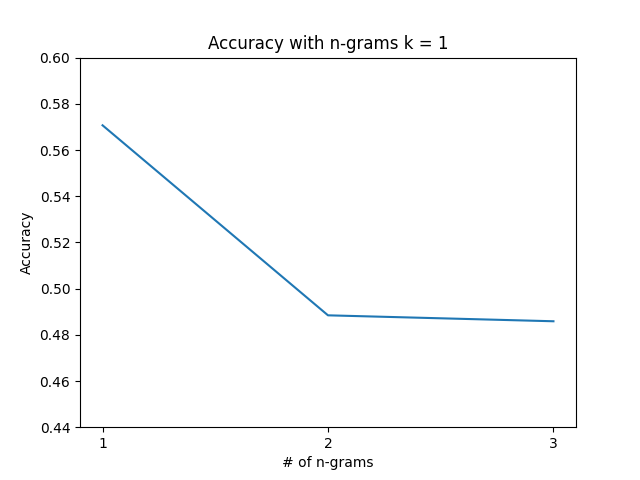
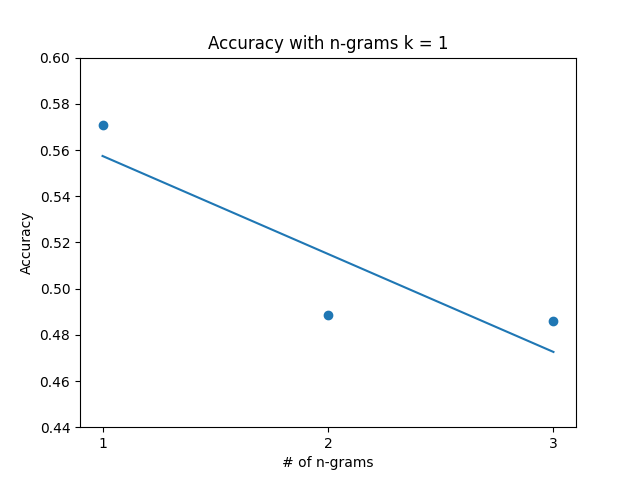
KNN Graphs&Results w/new data

diff --git a/kNN.py b/kNN.py
@@ -195,13 +195,13 @@ def extract_dictionary_custom(df,n_gram = 1):
 
 #generate a feature matrix
 def trainkNN(df):
-    word_dict, num_of_tweets = extract_dictionary_custom(df,2)
+    word_dict, num_of_tweets = extract_dictionary_custom(df,1)
     labels = {}
     num_of_words = len(word_dict)
     feature_matrix = np.zeros((num_of_tweets,num_of_words))
     ind = 0
     for index, row in df.iterrows():
-        x = extract_word_custom(row["Tweet"],2)
+        x = extract_word_custom(row["Tweet"],1)
         y = row["Party"]
         if len(x) != 0:
             for word in x:
@@ -216,7 +216,7 @@ def trainTestData(df,word_dict):
     feature_matrix = np.zeros((len(df),len(word_dict)))
     ind = 0
     for index, row in df.iterrows():
-        x = extract_word_custom(row["Tweet"],2)
+        x = extract_word_custom(row["Tweet"],1)
         y = row["Party"]
         for word in x:
             if word in word_dict:
@@ -259,7 +259,7 @@ def main(argv):
     # print(trainSet)
     # print(testSet)
     df = pd.read_csv(trainSet,delimiter=",")
-    df = df.sample(frac = 0.03, random_state=200)
+    df = df.sample(frac = 0.10, random_state=200)
     # print(len(df))
     traindf = df.sample(frac = 0.85, random_state=200)
     # print(len(traindf))
@@ -268,7 +268,7 @@ def main(argv):
     feature_matrix, trainLabels, word_dict = trainkNN(traindf)
     test_feature_matrix, testLabels = trainTestData(testdf,word_dict)
     # print(test_feature_matrix.sum(axis = 1))
-    print(testkNN(feature_matrix,test_feature_matrix, trainLabels, testLabels,3))
+    print(testkNN(feature_matrix,test_feature_matrix, trainLabels, testLabels,20))
 
 if __name__ == '__main__':
     main(sys.argv)

diff --git a/graphs.py b/graphs.py
@@ -1,28 +1,34 @@
 import sys
 import matplotlib.pyplot as plt
+import numpy as np
 
 
 def main(argv):
     #k value accuracy graph
-    k = [1,2,3,5,10,20]
-    vals = [0.57069,0.51928,0.56298,0.53985,0.52442,0.53728]
+    k = np.array([1,2,3,5,10,20])
+    vals = np.array([0.57069,0.51928,0.56298,0.53985,0.52442,0.53728])
+    maxvals = np.array([0.59719,0.57025,0.58066,0.5854,0.55893,0.52587])
 
     #k = 3, n-grams
-    n_grams = [1,2,3]
-    vals2 = [0.56298,0.53728,0.53985]
+    n_grams = np.array([1,2,3])
+    vals2 = np.array([0.56298,0.53728,0.53985])
 
     # k = 1, n-grams
-    n_grams3 = [1, 2, 3]
-    vals3 = [0.57069, 0.48843, 0.48586]
+    n_grams3 = np.array([1, 2, 3])
+    vals3 = np.array([0.57069, 0.48843, 0.48586])
 
-    plt.xticks(n_grams3,n_grams3)
-    plt.plot(n_grams3,vals3)
-    plt.title("Accuracy with n-grams k = 1")
+    # a, b = np.polyfit(n_grams3, vals3, 1)
 
-    plt.xlabel("# of n-grams")
+    plt.xticks(k,k)
+    plt.plot(k,vals)
+    plt.plot(k,maxvals)
+    # plt.plot(n_grams3,a*n_grams3+b)
+    plt.title("Nearest Neighbor Accuracy Comparison of both datasets")
+
+    plt.xlabel("# of nearest neighbors")
     plt.ylabel("Accuracy")
     plt.ylim(0.44,0.60)
-    plt.savefig("k3ngrams.png")
+    plt.savefig("datasetcomparisonKNN.png")
 
     # plt.title("Nearest Neighbors Accuracy Values")
     # plt.xlabel("Nearest Neighbor k value")
